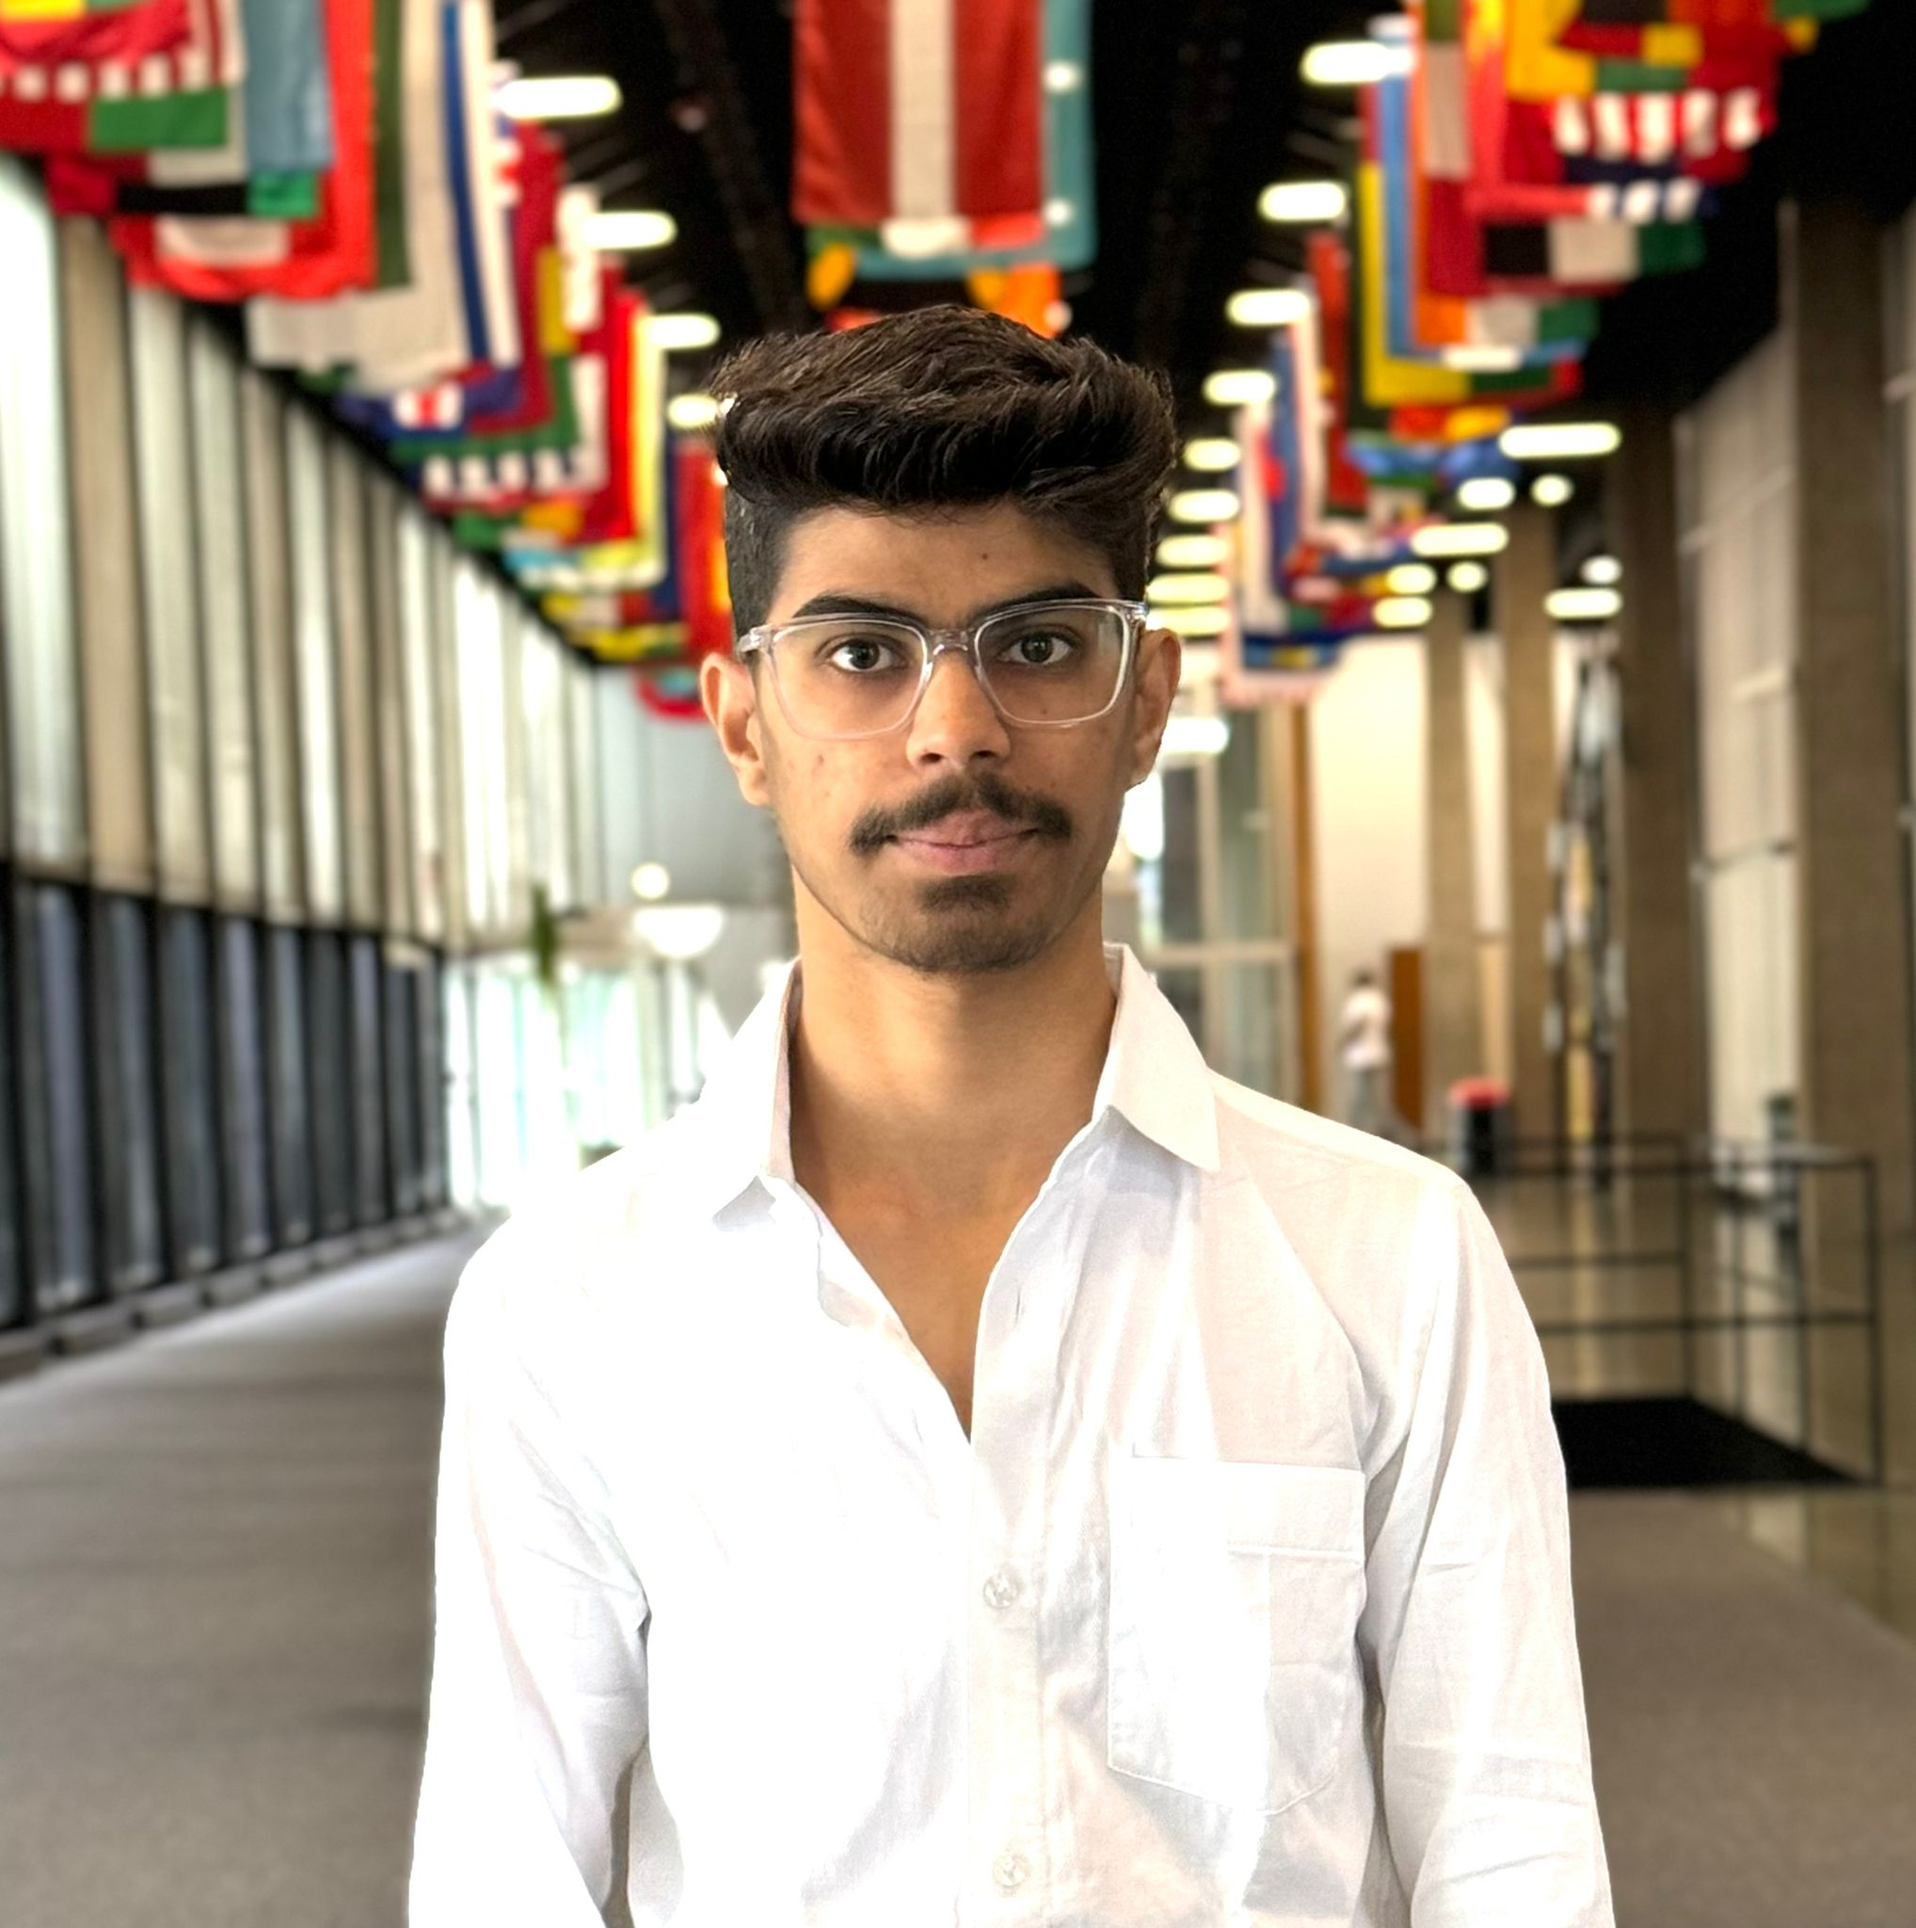
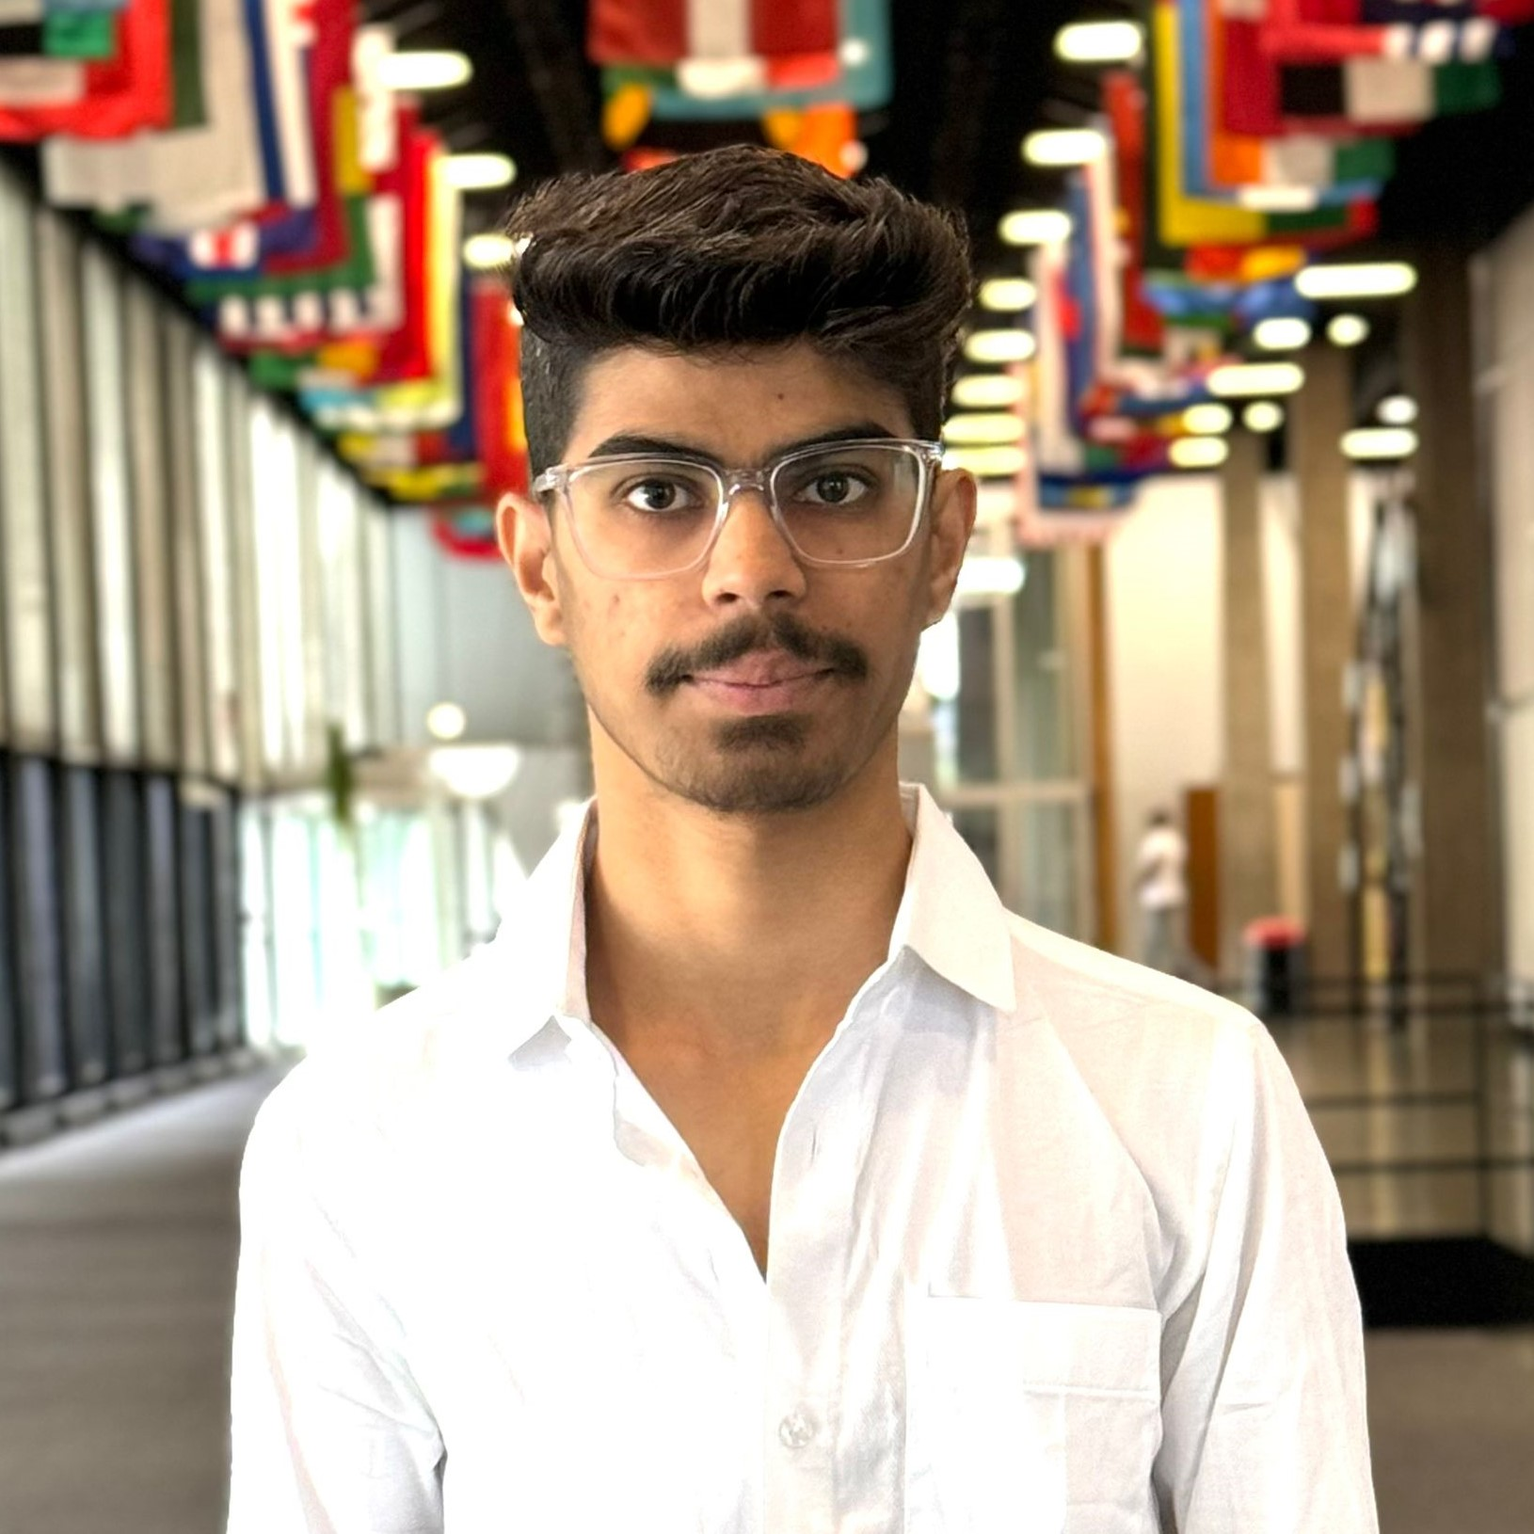
Imporoved profile section

diff --git a/app/globals.css b/app/globals.css
@@ -17,7 +17,6 @@
 body {
   color: var(--foreground);
   background: var(--background);
-  font-family: Arial, Helvetica, sans-serif;
 }
 
 .main {
@@ -53,7 +52,7 @@ body {
 }
 
 .bg-gray-800 {
-  background-color: #e5e7eb;
+  background-color: #f5f5f7;
   width: 100%;
 }
 
@@ -72,9 +71,10 @@ body {
   align-items: center;
   margin: 20px;
   flex-direction: column;
-  background-color: #e5e7eb;
+  background-color: #f5f5f7;
   border-radius: 20px;
   padding: 25px;
+  gap:20px;
   width: 80%;
 }
 
@@ -82,7 +82,7 @@ body {
   display: flex;
   margin: 20px;
   flex-direction: column;
-  background-color: #e5e7eb;
+  background-color: #f5f5f7;
   border-radius: 20px;
   padding: 25px;
   width: 80%;
@@ -93,7 +93,7 @@ body {
   display: flex;
   margin: 20px;
   flex-direction: column;
-  background-color: #e5e7eb;
+  background-color: #f5f5f7;
   border-radius: 20px;
   padding: 25px;
   width: 80%;
@@ -112,7 +112,7 @@ body {
   display: flex;
   margin: 20px;
   flex-direction: column;
-  background-color: #e5e7eb;
+  background-color: #f5f5f7;
   border-radius: 20px;
   padding: 25px;
   width: 80%;
@@ -122,7 +122,7 @@ body {
   display: flex;
   margin: 20px;
   flex-direction: column;
-  background-color: #e5e7eb;
+  background-color: #f5f5f7;
   border-radius: 20px;
   padding: 25px;
   width: 80%;
@@ -135,7 +135,7 @@ body {
   display: flex;
   margin: 20px;
   gap: 30px;
-  background-color: #e5e7eb;
+  background-color: #f5f5f7;
   border-radius: 20px;
   padding: 25px;
   width: 90%;
@@ -164,6 +164,7 @@ body {
   border-width: 1px;
   will-change: transform;
   transform: scale(0.911692);
+  line-height: 2.16667;
 }
 
 h1 {
@@ -181,7 +182,39 @@ h1 {
 }
 
 .navbar{
-  background: rgb(229, 231, 235);
+  background: #f5f5f7;
+  width: 100%;
+  height: 64px;
+}
+
+.profilePicture{
+  width: 15rem;
+  height: 15rem;
+}
+
+.profileContent{
+  display:flex;
+  flex-direction: column;
+  align-items: center;
+  gap:15px;
+}
+
+.name{
+  display:flex;
+  align-items: center;
+  gap: 5px;
+}
+
+.title{
+  font-size: 42px;
+  letter-spacing: .009em;
+  font-weight: 500;
+  font-family: "SF Pro Display","SF Pro Icons","Helvetica Neue","Helvetica","Arial",sans-serif;
+}
+
+.designation,
+.location{
+  font-size: 20px;
 }
 
 .competencies{
@@ -209,10 +242,21 @@ h1 {
   gap: 12px;
 }
 
-.flex{
+.openForWorkButton{
   gap: 10px;
-  font-size: 1rem;
-  border-radius: 30px;
+  font-size: 17px;
+  line-height: 1.17648;
+  padding: 8px;
+  border-style: solid;
+  border-width: 1px;
+  border-radius: 980px;
+  letter-spacing: -.022em;
+  font-family: "SF Pro Text","SF Pro Icons","Helvetica Neue","Helvetica","Arial",sans-serif;
+  pointer-events: all;
+  font-weight: 400;
+  background-color: rgba(0,0,0,0);
+  --sk-button-margin-horizontal: 14px;
+  --sk-button-margin-vertical: 14px;
 }
 
 .skillsSection{

diff --git a/app/components/Profile.tsx b/app/components/Profile.tsx
@@ -11,16 +11,21 @@ function Profile() {
       >
         <div className="avatar bg-primary/25 rounded-full ring ring-primary ring-offset-4 ring-offset-background">
           <img
-            className="w-48 h-48 rounded-full"
+            className="profilePicture rounded-full"
             src="/Avatar.jpeg"
             alt="Tejas Saraf Avatar"
           />
         </div>
-        <span className="text font-medium text-lg">Tejas Saraf</span>
-        <span className="block text-gray-500">Software Developer | Ex - Jio Platforms</span>
-        <span className="block text-gray-500">Chicago, IL, United States</span>
+        <div className="profileContent">
+          <div className="name">
+          <p className="title text text-lg">Tejas Saraf</p>
+          <svg className="verified w-5 h-5 fill-primary" viewBox="0 0 22 22" xmlns="http://www.w3.org/2000/svg"><path d="M7.6 21.5L5.7 18.3L2.1 17.5L2.45 13.8L0 11L2.45 8.2L2.1 4.5L5.7 3.7L7.6 0.5L11 1.95L14.4 0.5L16.3 3.7L19.9 4.5L19.55 8.2L22 11L19.55 13.8L19.9 17.5L16.3 18.3L14.4 21.5L11 20.05L7.6 21.5ZM9.95 14.55L15.6 8.9L14.2 7.45L9.95 11.7L7.8 9.6L6.4 11L9.95 14.55Z"></path></svg>
+          </div>
+        <span className="designation block text-gray-500">Software Developer | Ex - Jio Platforms</span>
+        <span className="location block text-gray-500">Chicago, IL, United States | Contact Info</span>
+        </div>
         <motion.button
-          className="button flex items-center gap-2 border border-primary px-2 py-1 rounded-2xl font-thin hover:underline"
+          className="openForWorkButton button flex items-center gap-2 border border-primary px-2 py-1 rounded-2xl font-thin hover:underline"
           type="button"
           aria-haspopup="dialog"
           aria-expanded="false"
